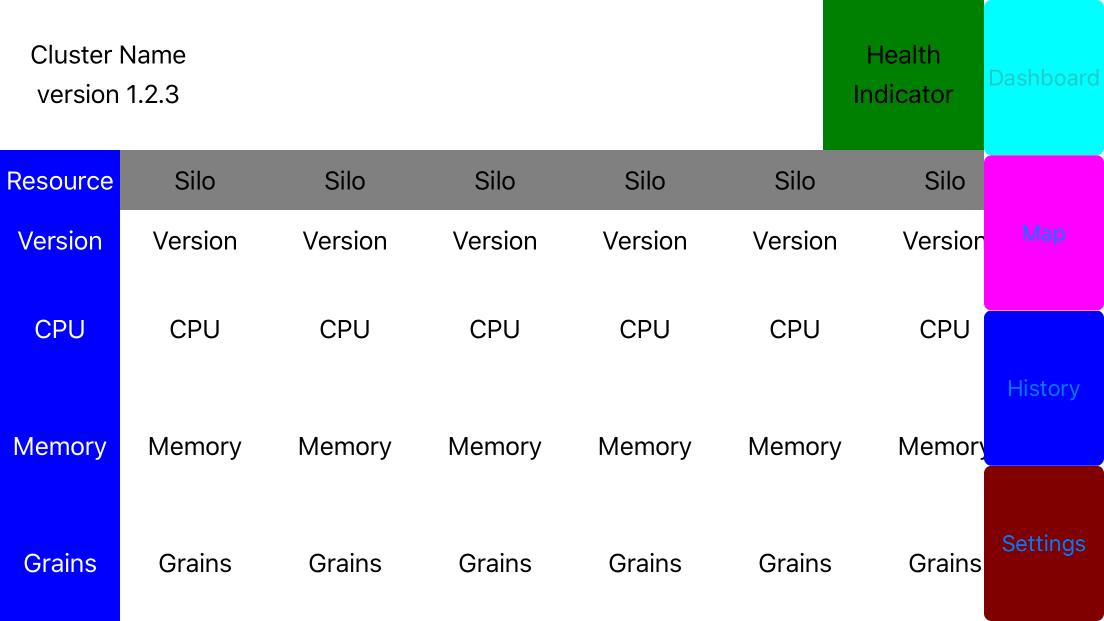
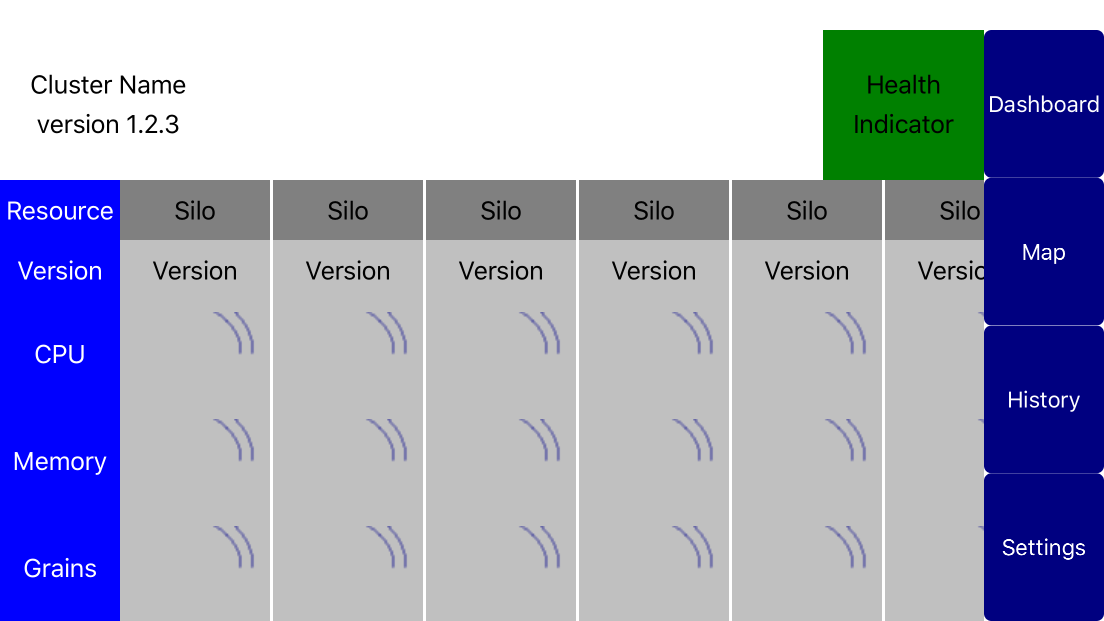
* ClusterDashboardView.xaml: added column header for portrait list   style of silos
* updated dashboard screenshots

* Dashboard Portrait.png:
* Dashboard Landscape.png:
* ClusterDashboardView.xaml.cs:

diff --git a/DashboardClient/Views/ClusterDashboardView.xaml b/DashboardClient/Views/ClusterDashboardView.xaml
@@ -24,12 +24,36 @@
 			</Grid.ColumnDefinitions>
 			<Grid.RowDefinitions>
 				<RowDefinition Height="100"/>
+				<RowDefinition Height="Auto"/>
 				<RowDefinition Height="*"/>
 			</Grid.RowDefinitions>
 
 			<local:ClusterView Grid.Row="0" Grid.Column="0" Grid.ColumnSpan="2"/>
 
-			<Grid x:Name="ResourceSidebar" Grid.Row="1" Grid.Column="0" BackgroundColor="Blue" RowSpacing="0">
+			<ContentView x:Name="ColumnHeaderView" Grid.Row="1" Grid.Column="0" Grid.ColumnSpan="2" 
+					HeightRequest="50" BackgroundColor="Fuchsia">
+
+				<Grid RowSpacing="0" ColumnSpacing="0">
+					<Grid.ColumnDefinitions>
+						<ColumnDefinition Width="*"/>
+						<ColumnDefinition Width="*"/>
+						<ColumnDefinition Width="*"/>
+						<ColumnDefinition Width="*"/>
+						<ColumnDefinition Width="*"/>
+					</Grid.ColumnDefinitions>
+					<Grid.RowDefinitions>
+						<RowDefinition Height="*"/>
+					</Grid.RowDefinitions>
+
+					<Label Grid.Column="0" Text="Silo" TextColor="White" VerticalTextAlignment="Center"/>
+					<Label Grid.Column="1" Text="Version" TextColor="White" VerticalTextAlignment="Center"/>
+					<Label Grid.Column="2" Text="CPU" TextColor="White" VerticalTextAlignment="Center"/>
+					<Label Grid.Column="3" Text="Memory" TextColor="White" VerticalTextAlignment="Center"/>
+					<Label Grid.Column="4" Text="Grains" TextColor="White" VerticalTextAlignment="Center"/>
+				</Grid>
+			</ContentView>
+
+			<Grid x:Name="ResourceSidebar" Grid.Row="2" Grid.Column="0" BackgroundColor="Blue" RowSpacing="0">
 				<Grid.ColumnDefinitions>
 					<ColumnDefinition Width="*"/>
 				</Grid.ColumnDefinitions>
@@ -48,7 +72,7 @@
 				<Label Grid.Row="4" Text="Grains" TextColor="White" VerticalTextAlignment="Center"/>
 			</Grid>
 
-			<ScrollView x:Name="SiloScrollView" Grid.Row="1" Grid.Column="1" Orientation="Horizontal">
+			<ScrollView x:Name="SiloScrollView" Grid.Row="2" Grid.Column="1" Orientation="Horizontal">
 				<StackLayout x:Name="SiloStack" Orientation="Horizontal" Spacing="2" HorizontalOptions="FillAndExpand">
 					<!-- local:SiloView controls added here in code -->
 				</StackLayout>

diff --git a/DashboardClient/Views/ClusterDashboardView.xaml.cs b/DashboardClient/Views/ClusterDashboardView.xaml.cs
@@ -37,6 +37,8 @@ namespace DashboardClient.Views
 
 		void OnOrientationUpdated (ViewOrientation o)
 		{
+			ColumnHeaderView.IsVisible = (o == ViewOrientation.Portrait);
+
 			SiloScrollView.Orientation = (o == ViewOrientation.Portrait) ? ScrollOrientation.Vertical : ScrollOrientation.Horizontal;
 			SiloStack.Orientation = (o == ViewOrientation.Portrait) ? StackOrientation.Vertical : StackOrientation.Horizontal;
 
@@ -46,6 +48,7 @@ namespace DashboardClient.Views
 				SiloScrollView.SetGridColumn (0, 2);
 			else
 				SiloScrollView.SetGridColumn (1, 1);
+
 		}
 	}
 }
